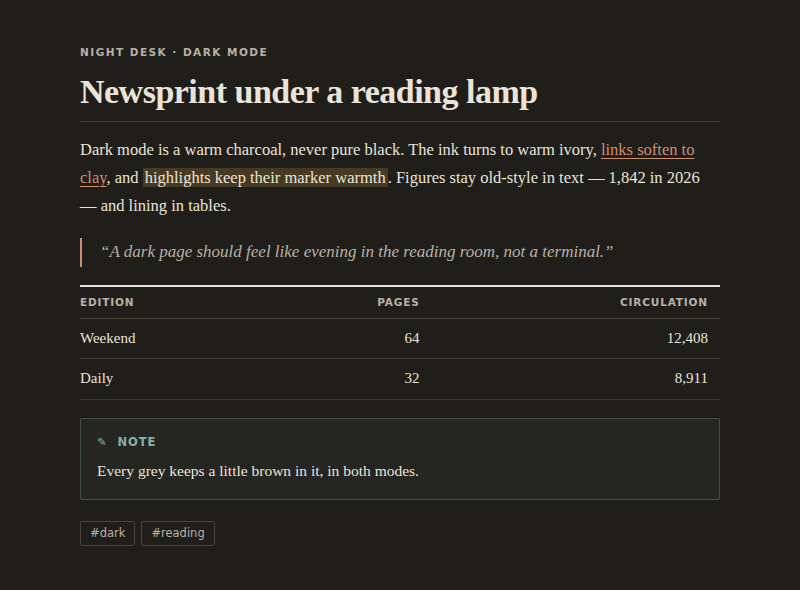
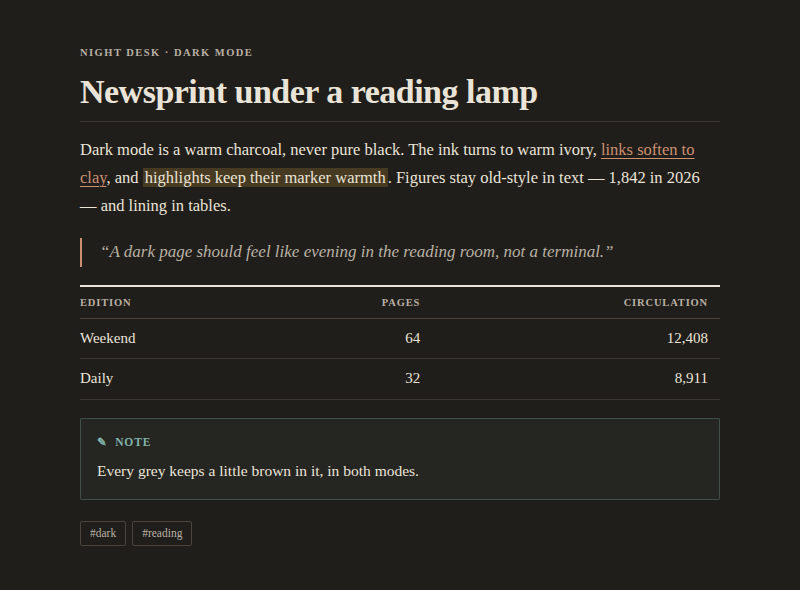
Default the interface to Georgia and keep the frame fully opaque
Two refinements from in-vault testing on macOS:

- Interface font now defaults to Georgia (falling back through
  Charter, Iowan Old Style, Cambria), so the sidebar, tabs, kickers,
  table heads, callout labels and tags share the notes' editorial
  serif voice out of the box. The user's own Settings -> Appearance ->
  Font choice still overrides it, and --newsprint-sans remains
  available for snippets that prefer sans chrome.
- --workspace-background-translucent is now a solid paper tone in
  both modes, so macOS Liquid Glass / Translucent window can no
  longer frost the frame grey: the window stays opaque paper in
  windowed mode as well as full screen.

Documentation previews (hero, typography, furniture, dark mode) and
the 512x288 store thumbnail regenerated to show the serif interface;
README tips and changelog updated to match.

Claude-Session: https://claude.ai/code/session_01VyBNmQaQPkvZY5t6ZZhUzX

diff --git a/theme.css b/theme.css
@@ -26,10 +26,16 @@ body {
     "Roboto", "Helvetica Neue", "Arial", sans-serif;
   --newsprint-mono: ui-monospace, "SF Mono", "Cascadia Code",
     "JetBrains Mono", "Menlo", "Consolas", monospace;
+  --newsprint-serif-ui: "Georgia", "Charter", "Bitstream Charter",
+    "Iowan Old Style", "Cambria", "Times New Roman", serif;
 
-  /* Notes are set in serif; the surrounding chrome in a quiet sans. */
+  /* Notes in a text serif; the chrome in Georgia — the classic
+     screen serif — kept small and quiet so the whole app reads
+     like one printed page. Prefer a sans interface? Set it under
+     Settings → Appearance → Font, or point --font-interface-theme
+     at --newsprint-sans in a snippet. */
   --font-text-theme: var(--newsprint-serif);
-  --font-interface-theme: var(--newsprint-sans);
+  --font-interface-theme: var(--newsprint-serif-ui);
   --font-monospace-theme: var(--newsprint-mono);
 }
 
@@ -106,10 +112,10 @@ body {
   --scrollbar-thumb-bg: rgba(60, 50, 35, 0.14);
   --scrollbar-active-thumb-bg: rgba(60, 50, 35, 0.3);
 
-  /* Keep chrome surfaces warm, and keep the paper tone even
-     when Translucent window is enabled on macOS. */
+  /* Keep chrome surfaces warm — and fully opaque: no grey glass
+     shows through, even with Translucent window enabled on macOS. */
   --background-secondary-alt: var(--color-base-10);
-  --workspace-background-translucent: rgba(250, 245, 237, 0.65);
+  --workspace-background-translucent: var(--color-base-05);
 }
 
 /* ------------------------------------------------------------
@@ -163,10 +169,10 @@ body {
   --scrollbar-thumb-bg: rgba(230, 220, 200, 0.1);
   --scrollbar-active-thumb-bg: rgba(230, 220, 200, 0.25);
 
-  /* Keep chrome surfaces warm, and keep the ink tone even
-     when Translucent window is enabled on macOS. */
+  /* Keep chrome surfaces warm — and fully opaque: no grey glass
+     shows through, even with Translucent window enabled on macOS. */
   --background-secondary-alt: var(--color-base-05);
-  --workspace-background-translucent: rgba(32, 30, 27, 0.65);
+  --workspace-background-translucent: var(--color-base-05);
 }
 
 /* ------------------------------------------------------------

diff --git a/README.md b/README.md
@@ -15,8 +15,8 @@ an industrial dashboard.
   Georgia, whichever your system has — with generous 1.7 leading and a
   comfortable ~42 em column. No font files are bundled and no network is
   used: the theme works offline, on desktop and mobile, out of the box.
-- The interface steps back into a small, quiet system sans, so your writing
-  is the loudest thing on screen.
+- The interface is set in Georgia — the classic screen serif — at small,
+  quiet sizes, so the whole app reads like one printed page.
 - Old-style figures in running text; lining tabular figures in tables and
   code, where numbers must line up.
 - A restrained heading scale with tightened tracking on the display sizes.
@@ -97,14 +97,14 @@ or set the others under **Settings → Appearance → Font**:
   theme's clay/claret default.
 - Turn on **Readable line length** for the proper single-column measure.
 - Write `###### like this` above a heading for a newspaper-style kicker.
-- Want the interface in the same serif as your notes? Set
-  **Settings → Appearance → Font** (the interface font) to the serif your
-  notes resolve to — **Charter** on macOS/iOS, **Georgia** or **Cambria**
-  on Windows. Note text is controlled separately under **Text font**.
-- If the window chrome looks grey instead of warm paper, check
-  **Settings → Appearance → Translucent window**: macOS vibrancy frosts
-  the theme's colours. The theme keeps a warm tint when it's on, but the
-  true paper tones need it off.
+- The interface defaults to **Georgia**; your own choice under
+  **Settings → Appearance → Font** always wins, so set a sans there if
+  you prefer quieter chrome. Note text is controlled separately under
+  **Text font**.
+- The theme keeps the window frame **opaque paper** even when
+  **Settings → Appearance → Translucent window** is on — no grey glass.
+  If you still see system material anywhere (macOS Liquid Glass), turn
+  that setting off.
 
 ## Versioning and releases
 

diff --git a/CHANGELOG.md b/CHANGELOG.md
@@ -28,5 +28,6 @@ Initial version.
 - Warm light palette (ivory paper, warm near-black ink, clay/claret accent)
   and warm charcoal dark palette; muted ink-like section colours for
   callouts in both modes.
-- Quiet interface: system sans chrome, warm caret and selection, reduced
-  corner radii, warm scrollbars.
+- Quiet interface: Georgia serif chrome at small sizes, opaque warm window
+  frame (no grey glass with Translucent window), warm caret and selection,
+  reduced corner radii, warm scrollbars.
